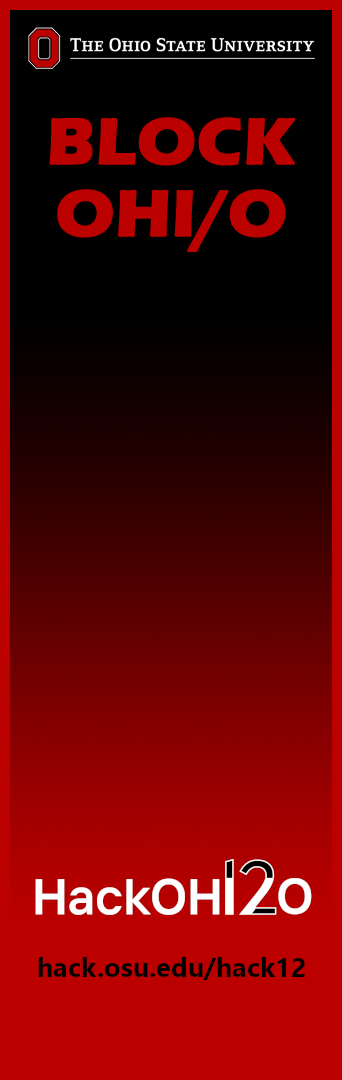
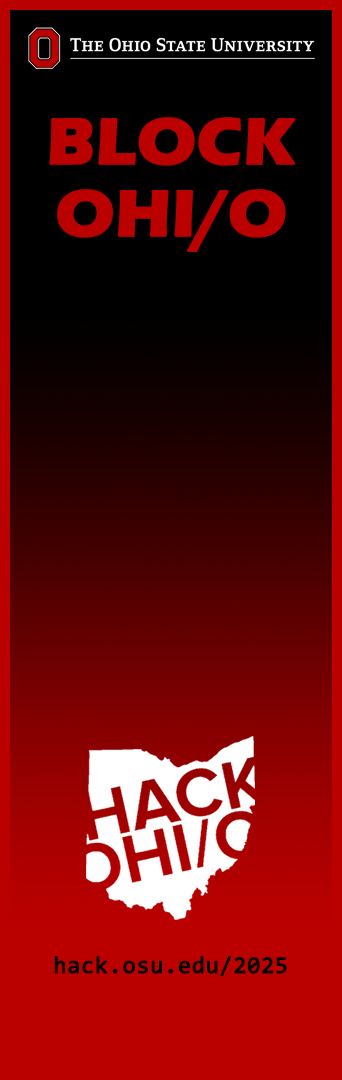
2025 Graphics Update
* New graphics & text
* Remove unused backgrounds

Changed region(s): [[0.0877, 0.6722, 0.9064, 0.8556], [0.117, 0.8861, 0.9064, 0.9167]]

diff --git a/src/main.py b/src/main.py
@@ -100,7 +100,7 @@ class GameView(arcade.View):
 
         ## Static Content
         # Advertisement Note
-        self.st_adtxt = arcade.Text(text="REGISTER @ HACK.OSU.EDU/HACK12",
+        self.st_adtxt = arcade.Text(text="REGISTER @ HACK.OSU.EDU/2025",
                                     start_x=WINDOW_WIDTH / 2,
                                     start_y=80,
                                     color=arcade.color.WHITE,
